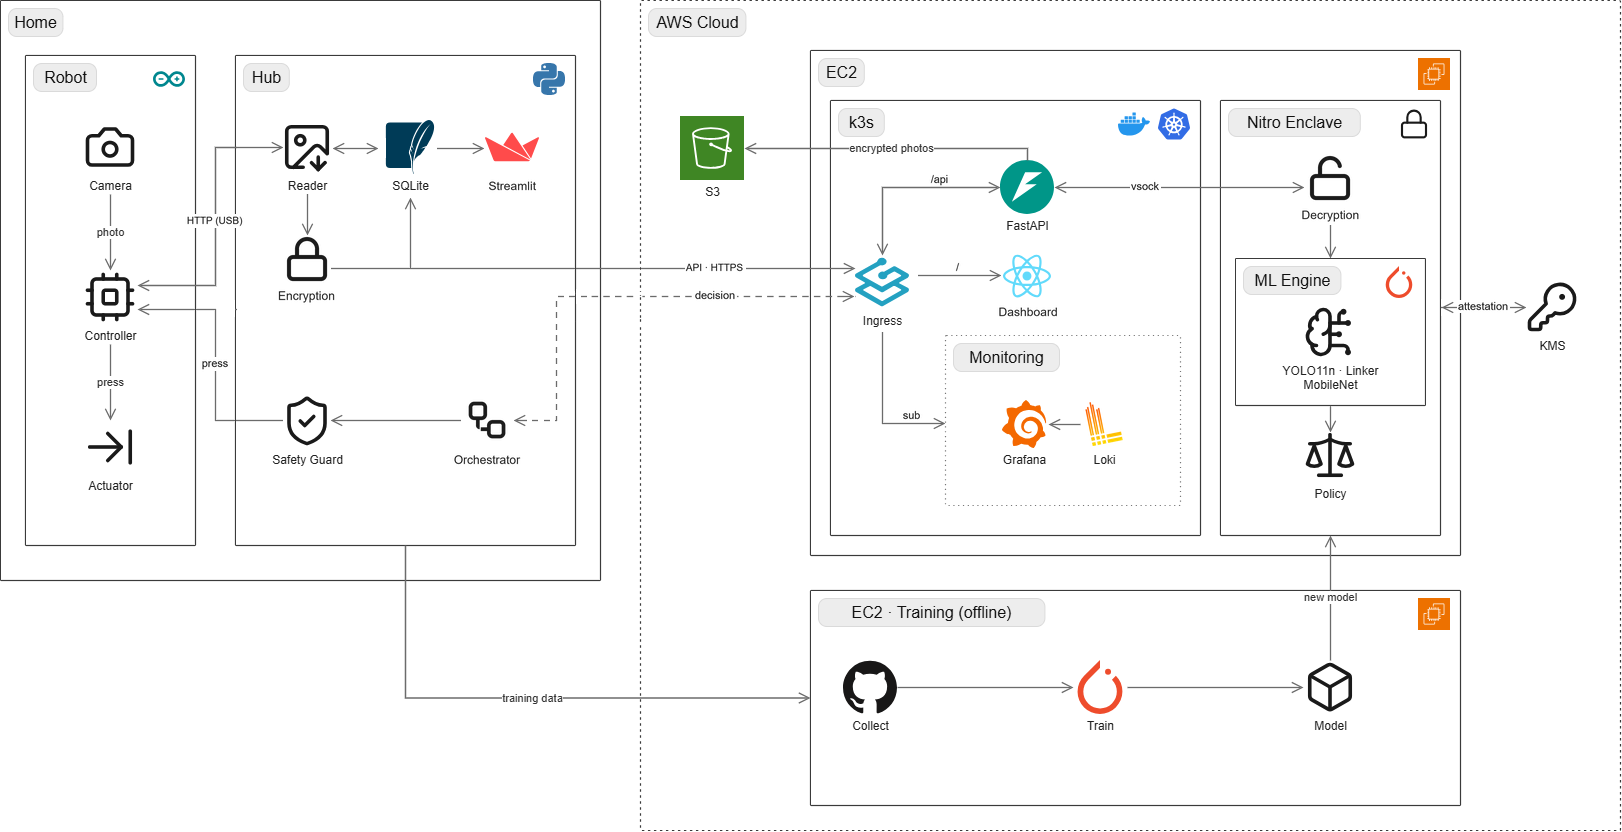
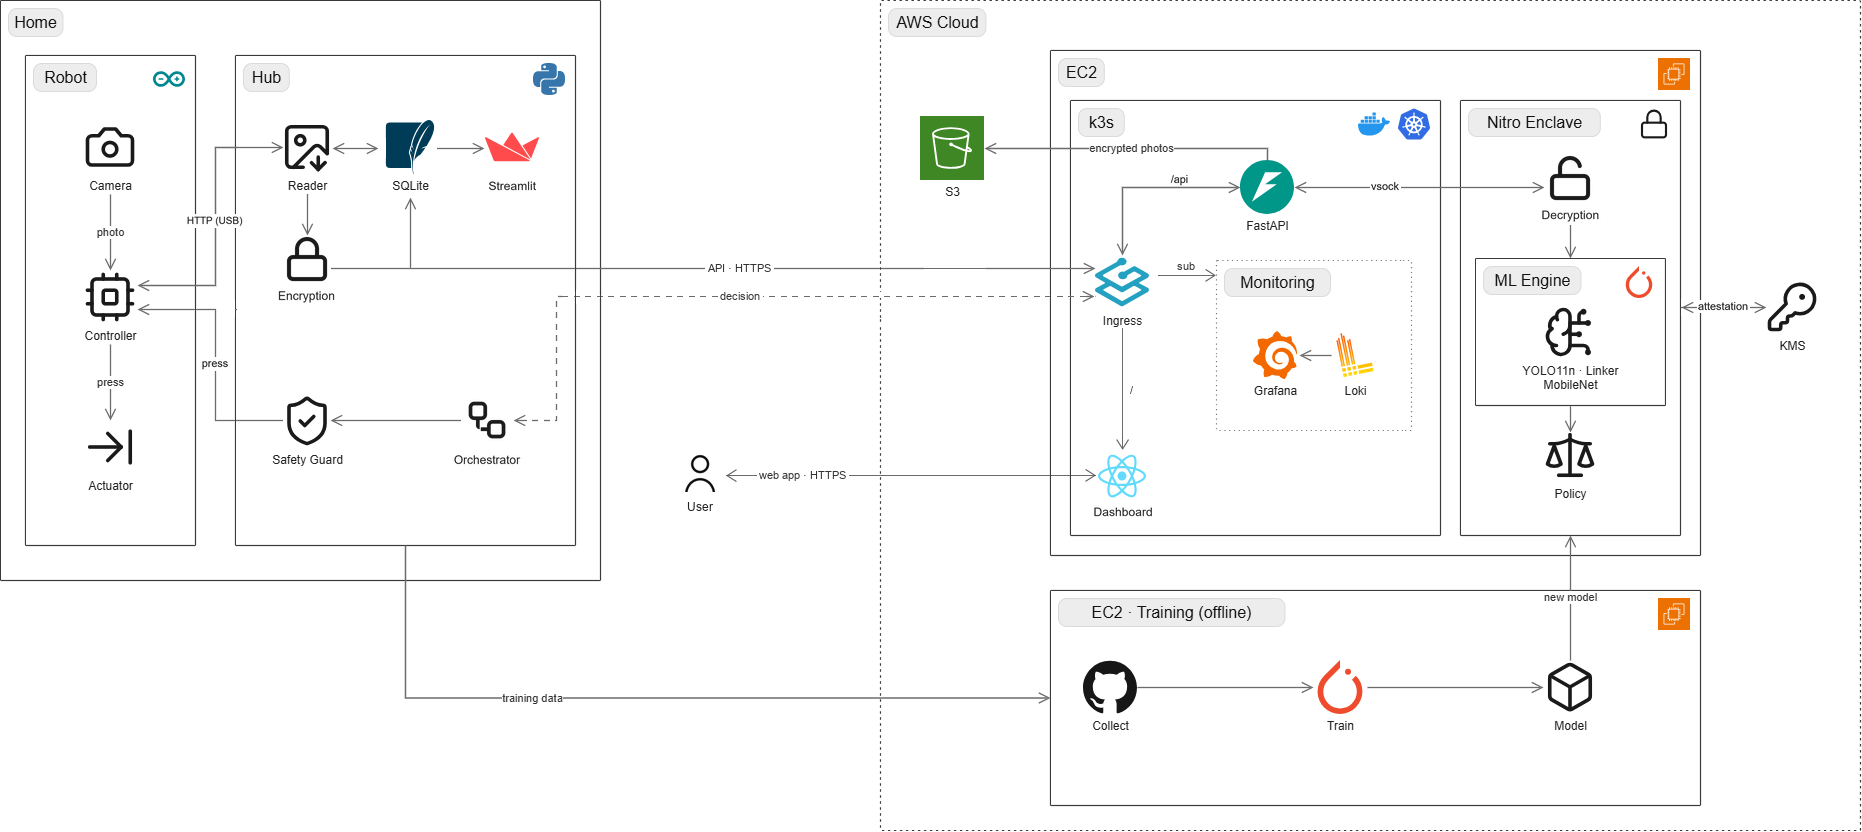
Show the user and the Dashboard in the architecture figure
The AWS side moves right to make room for the user, who opens the Dashboard (React) over HTTPS. In k3s, Monitoring now takes the ingress's sub route to the right and the Dashboard sits under the ingress on /.

diff --git a/profile/README.md b/profile/README.md
@@ -18,7 +18,7 @@ Every action is checked rather than assumed, high-risk devices always ask first,
 
 ## ⚙ System Architecture
 
-![NOVA System Architecture](./architecture.png?v=7)
+![NOVA System Architecture](./architecture.png?v=8)
 
 ---
 
